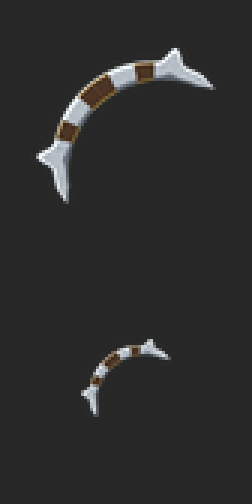
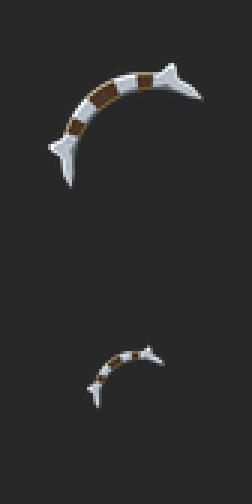
The bat'leth drew nothing in hand: weapon models live in module Base
One line in the log said it:

    WARN MeshAssetManager.loadCallback
         Failed to load asset: AssetPath{ "TrekBatlethModel" }

The engine was trying to load the *model block's name* as a mesh path, which
it only does when that name resolved to no ModelScript at all -- had the block
been found, the asset it failed on would have been weapons/2handed/TREK_Batleth.

So `WeaponSprite` does not resolve the way `StaticModel` does. The hull and the
helm are declared in `module TrekShuttle` and draw fine, so an in-module lookup
works for StaticModel; the weapon path evidently searches Base.
ScriptManager.resolveModelScript takes a ScriptModule, every vanilla weapon
model is in `module Base` (models_weapons.txt), and the one Workshop mod
shipping custom in-hand blades puts its models in `module Base` while keeping
its items in its own module. Both agree.

The model moves to media/scripts/trekweapons.txt, in module Base, because no
vanilla script file declares two modules -- and because that is exactly what
vanilla does, models_weapons.txt beside weapon.txt. The item stays in module
TrekShuttle and refers to it by bare name.

test_assets.py now records which module each of the mod's models is declared
in and fails a WeaponSprite pointing at one outside Base. The previous guard
checked only that the name existed somewhere, so it passed happily over a
weapon that could never draw. Mutation-checked by moving the module back.
[…]

Changed region(s): [[0.1389, 0.0893, 0.8611, 0.4167], [0.3056, 0.6548, 0.6667, 0.8333]]

diff --git a/tests/test_assets.py b/tests/test_assets.py
@@ -24,8 +24,16 @@ MOD_ITEM = re.compile(r"^TrekShuttle\.([A-Za-z0-9_]+)$")
 # The mod's own items, declared in media/scripts/trekshuttle.txt. A Lua
 # reference to one that is not declared there resolves to nothing, exactly as
 # silently as a bad Base id does.
-script = open(os.path.join(MOD, "media", "scripts", "trekshuttle.txt"),
-              encoding="utf-8").read()
+# Both item/model script files, concatenated. trekweapons.txt exists because
+# weapon models have to be declared in `module Base` -- WeaponSprite does not
+# resolve within the mod's own module the way StaticModel does -- and no
+# vanilla file declares two modules, so it could not simply live in the other
+# file. Anything checking "does this name resolve" has to see both or it will
+# report a model that is really there as missing.
+script = "".join(
+    open(os.path.join(MOD, "media", "scripts", fn), encoding="utf-8").read()
+    for fn in ("trekshuttle.txt", "trekweapons.txt")
+    if os.path.isfile(os.path.join(MOD, "media", "scripts", fn)))
 # Anchored to the end of the line, as the model and fluid patterns are: a real
 # declaration is "item Foo" and nothing else, so prose in a comment that
 # happens to say "item blocks" is not mistaken for one.
@@ -119,10 +127,40 @@ else:
 # SwingAnim must name one of the animations the game itself ships. Neither
 # failure says anything -- a bad WeaponSprite draws an empty hand, a bad
 # SwingAnim just does not animate -- so both are checked here.
+# Which module each of the mod's own models is declared in. WeaponSprite does
+# NOT resolve inside the mod's own module the way StaticModel does: the
+# bat'leth declared in `module TrekShuttle` drew nothing in hand, and the only
+# sign was one line -- MeshAssetManager failing to load an asset named after
+# the *model block*, which is what the engine falls back to when the name
+# resolved to no ModelScript at all. Every vanilla weapon model, and the one
+# Workshop mod shipping custom in-hand blades, declares them in `module Base`.
+model_module = {}
+for fn in ("trekshuttle.txt", "trekweapons.txt"):
+    path = os.path.join(MOD, "media", "scripts", fn)
+    if not os.path.isfile(path):
+        continue
+    body = open(path, encoding="utf-8").read()
+    current = None
+    for line in body.splitlines():
+        mod_m = re.match(r"^module\s+(\w+)", line)
+        if mod_m:
+            current = mod_m.group(1)
+        mdl = re.match(r"^\s*model\s+([A-Za-z0-9_]+)\s*$", line)
+        if mdl:
+            model_module[mdl.group(1)] = current
+
 for ref in re.findall(r"^\s*WeaponSprite\s*=\s*([A-Za-z0-9_]+)\s*,", script, re.M):
-    if ref not in mod_models and not re.search(r"model\s+%s\s*\n?\s*\{" % ref, vanilla):
-        failures.append(f"trekshuttle.txt: WeaponSprite = {ref} is neither a mod "
-                        f"model nor a vanilla one; the weapon draws nothing in hand")
+    if ref in mod_models:
+        where = model_module.get(ref)
+        if where != "Base":
+            failures.append(
+                f"WeaponSprite = {ref} names a model declared in module "
+                f"{where!r}. Weapon models must be in `module Base` or the "
+                f"engine finds no ModelScript and the weapon draws nothing in "
+                f"hand -- the only symptom is one MeshAssetManager warning.")
+    elif not re.search(r"model\s+%s\s*\n?\s*\{" % ref, vanilla):
+        failures.append(f"WeaponSprite = {ref} is neither a mod model nor a "
+                        f"vanilla one; the weapon draws nothing in hand")
 
 # The animation set is global and closed: a mod borrows a name or gets nothing.
 SWING_ANIMS = set(re.findall(r"^\s*SwingAnim\s*=\s*(\w+)\s*,", vanilla, re.M))

diff --git a/tools/gen_batleth.py b/tools/gen_batleth.py
@@ -187,8 +187,8 @@ def build_mesh(path, texture_file):
     return nv, nf, radius
 
 
-def build_icon(mesh_path, tex_path, out, render_size=512, icon=64, margin=0.04,
-               tilt=38.0):
+def build_icon(mesh_path, tex_path, out, render_size=512, icon=64, margin=0.12,
+               tilt=34.0):
     """The inventory icon, rendered from the mesh this tool just built.
 
     Two goes at drawing a bat'leth with the image model missed the silhouette:
